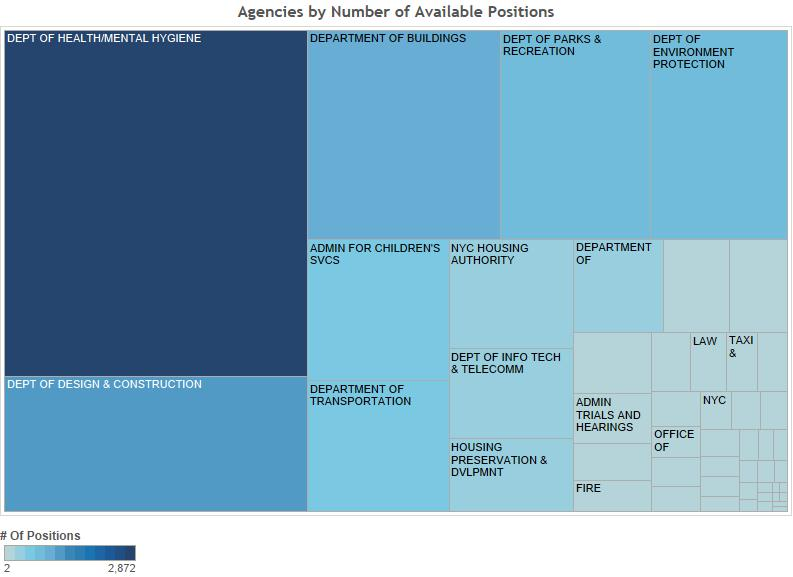
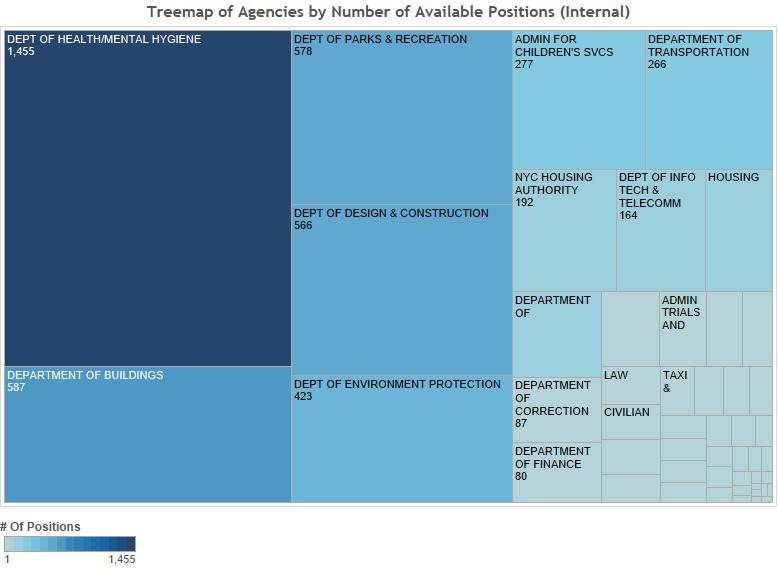
more on Challenge 2

Changed region(s): [[0.0, 0.0, 1.0, 1.0]]

diff --git a/_posts/2016-04-06-challenge-accepted.md b/_posts/2016-04-06-challenge-accepted.md
@@ -3,16 +3,16 @@ layout: post
 title:  Challenge Accepted
 date:   2016-04-06
 published: true
-categories: [python, data]
-tags: [python, jobs]
+categories: [python, challenges]
+tags: [python, data, analysis, challenges]
 ---
 Data Analysis Challenges
 
 ### *Counting Vitae* ###
 
-**Goal:** Using a plaintext copy of your resume, create a bar chart of character frequency.
-
-  *(Bonus: programmatically strip out punctuation and whitespace.)*  
+       Using a plaintext copy of your resume, create a bar chart of character
+    frequency.
+    (Bonus: programmatically strip out punctuation and whitespace.)  
 
 <div>
           <a href="https://plot.ly/~williams11/0/"
@@ -26,17 +26,41 @@ Data Analysis Challenges
 
 ### *Friendly Competition* ###
 
+    Which department has the most openings?
+
+Most of the job posts here were made internally and externally, so I decided to look at only internal postings to avoid counting duplicate postings. In addition, external postings can implicitly be seen by internal employees while other postings are only made available internally, thus limiting the scope to the internal posting type should give accurate results.
+
 ![](/assets/AvailablePositions.jpg)
 
-Max (2872 open positions):
-* Department of Health & Mental Hygiene
 
-Min (2 open positions):
-*  Civil Service Commission
-*  Landmarks Preservation
-*  Office of Collective Bargaining
-*  Manhattan Community Board #10
-*  NYC Police Pension Fund
-*  President Borough of Manhattan
+Max (1455 open positions):
+*  Department of Health & Mental Hygiene
+
+Min (1 open position):
+*   Civil Service Commission
+*   Landmarks Preservation
+*   Office of Collective Bargaining
+*   Manhattan Community Board #10
+*   NYC Police Pension Fund
+*   President Borough of Manhattan
+
+
+    Which departments have the highest and the lowest paying positions
+    (based on current job openings)?
+
+Based on the excel sheet
+
+*Lowest*
+
+Office of Collective Bargaining offers the lowest hourly rate, offering two positions ranging from $9/hour to $10/hour.
+
+*Highest*
+
+Department of Health & Mental Hygiene offers 30 positions with pay ranging from $71/hour to $76/hour. (Sounds good to me)
+Fire Department offers the same rate for two positions.
+
+
+    Which jobs do you think are the hardest to fill?
+    (What makes you say that?)
 
 ### *Show Off* ###
